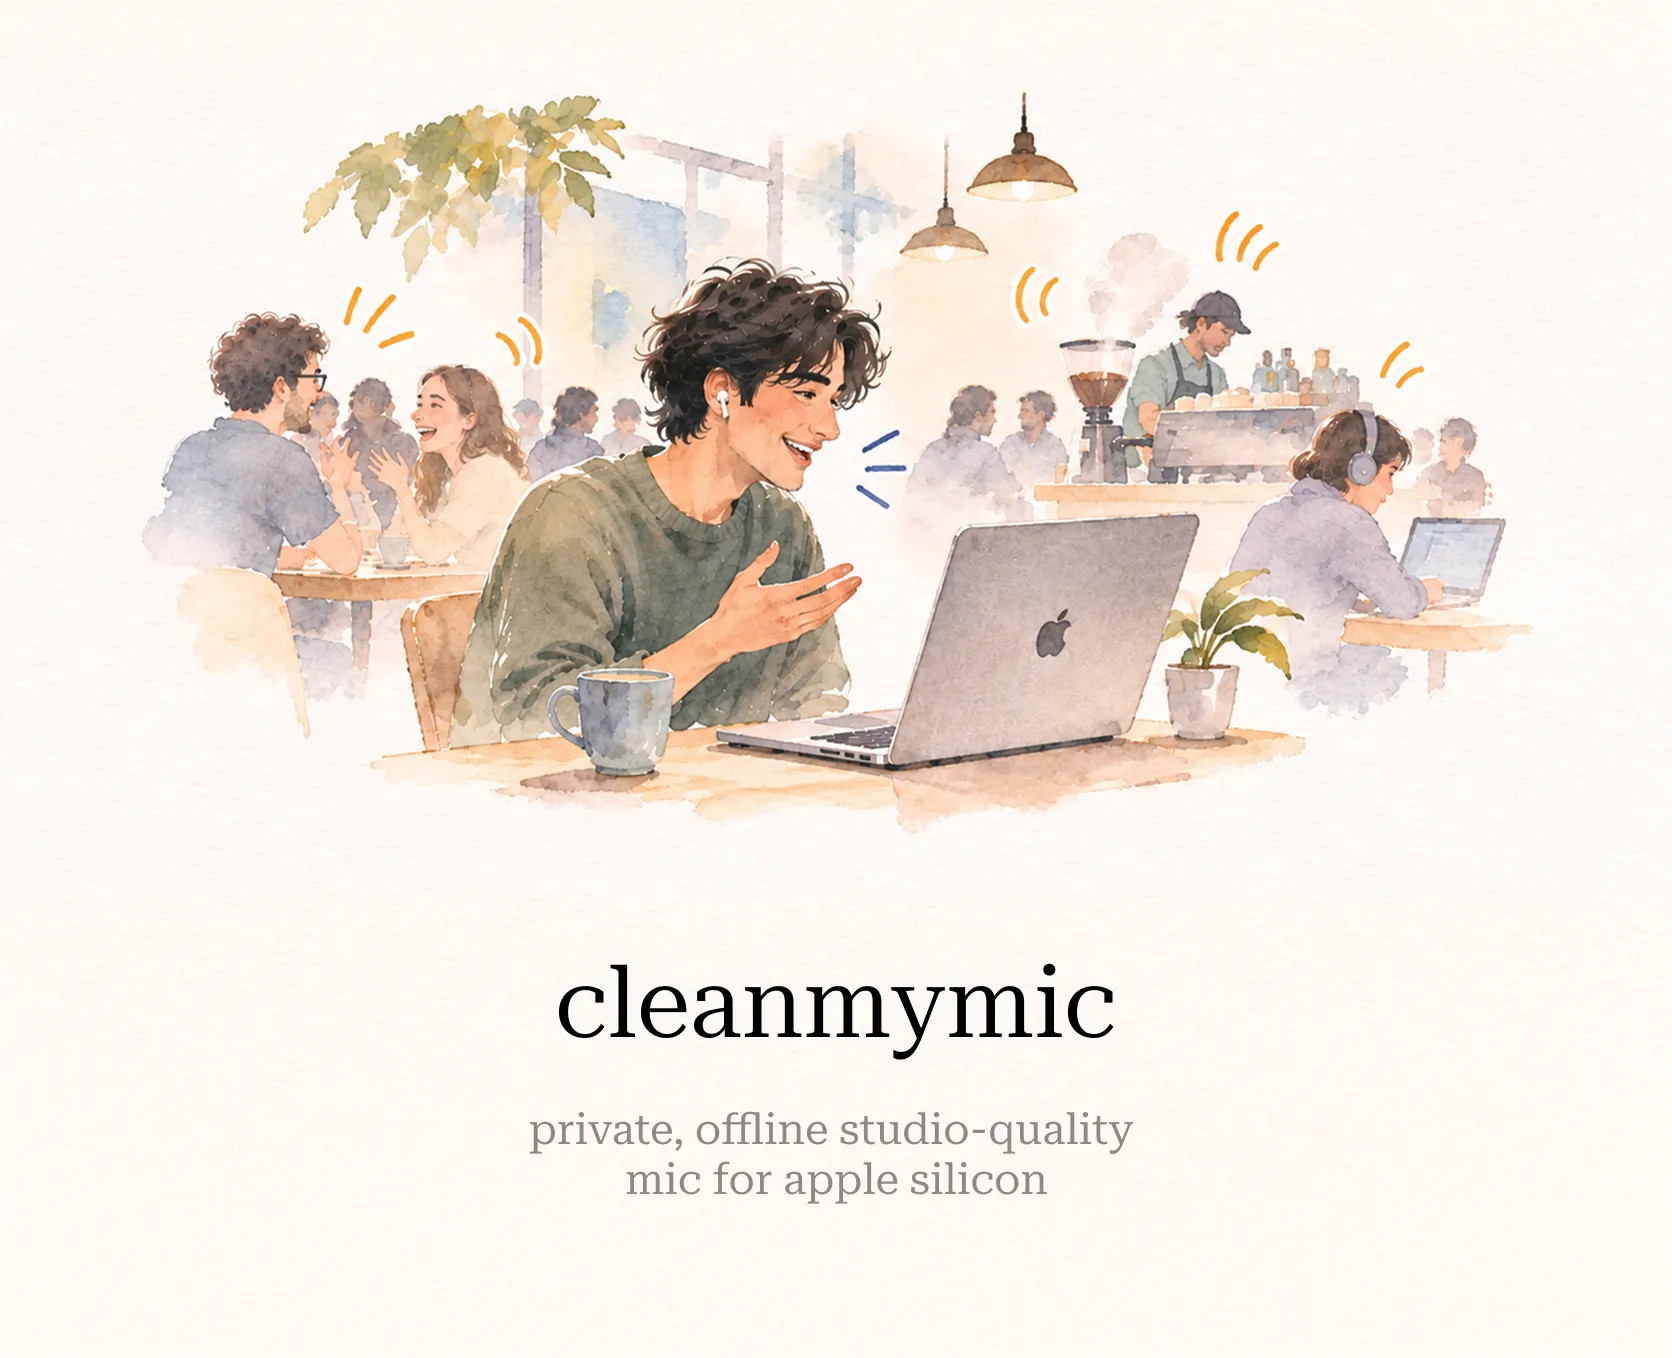
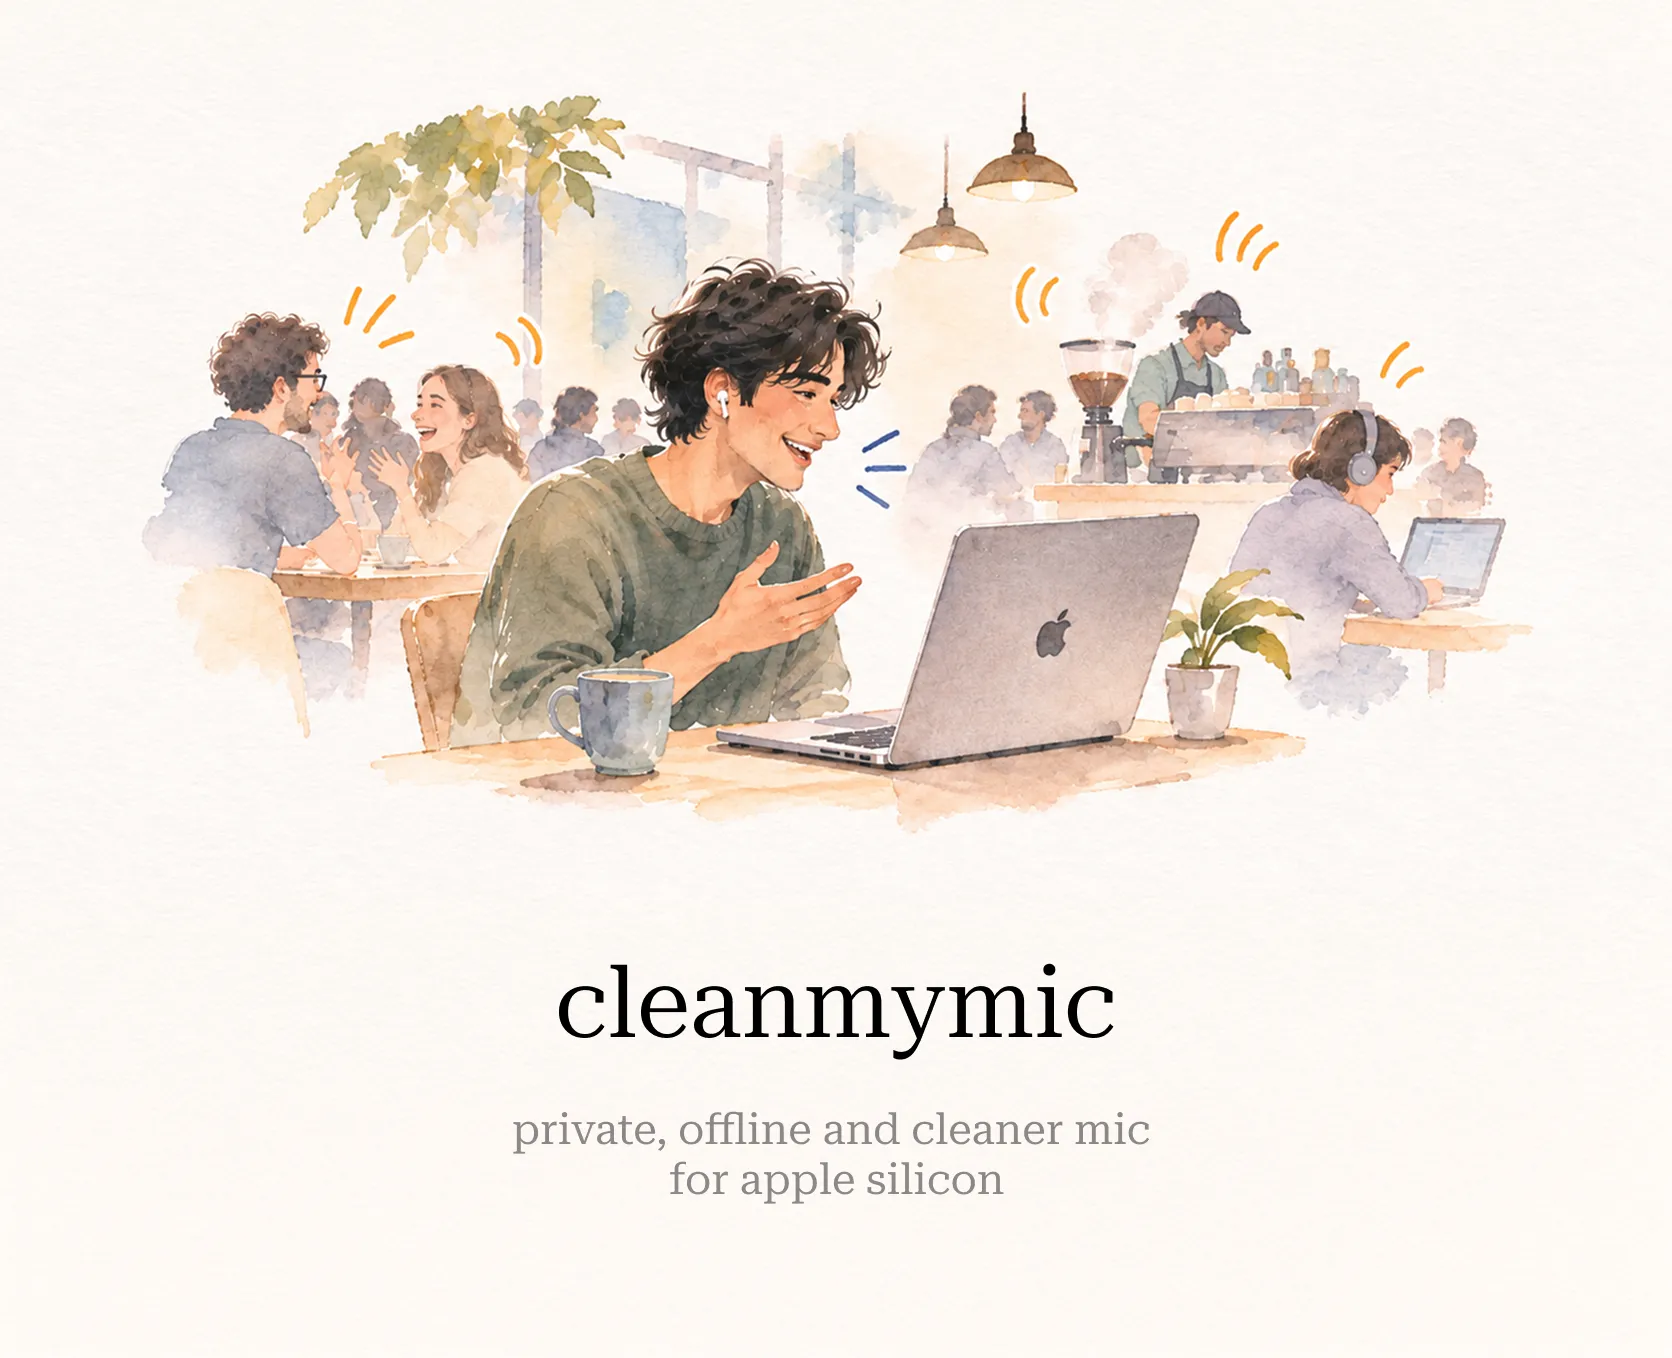
Mic check: off ends it, rename, mic prompt at launch (#6)
* Switching CleanMyMic off ends Hear yourself; keep the main switch enabled

* Release notes: describe the current panel, Hear yourself, and Settings

(cherry picked from commit 6a7e33c4f7a36f30aa84cb8b7043871268c90ccb)

* Rename Hear yourself to Mic check; ask for mic access at launch

The system mic prompt takes focus and closed the menu panel, which ended
the test mid-toggle. Asking once at launch keeps that prompt out of the panel.

* Update README cover: private, offline and cleaner mic

---------

Changed region(s): [[0.311, 0.8041, 0.6842, 0.8969]]

diff --git a/mac/Sources/CleanMyMic/App.swift b/mac/Sources/CleanMyMic/App.swift
@@ -45,12 +45,18 @@ nonisolated func modelDisplayName(_ resource: String) -> String {
 @Observable
 final class Controller {
     private let defaults = UserDefaults.standard
-    var noiseRemoval: Bool { didSet { defaults.set(noiseRemoval, forKey: "enabled"); pipeline?.setMix(mix) } }
+    var noiseRemoval: Bool {
+        didSet {
+            defaults.set(noiseRemoval, forKey: "enabled")
+            if !noiseRemoval { testing = false }  // off ends the headphone test (its didSet restarts)
+            pipeline?.setMix(mix)
+        }
+    }
     var inputUID: String { didSet { defaults.set(inputUID, forKey: "input"); restart() } }  // "": automatic
     var strength: Double { didSet { defaults.set(strength, forKey: "strength"); pipeline?.setMix(mix) } }
     var model: String { didSet { if model != oldValue { defaults.set(model, forKey: "model"); restart() } } }
     let models = bundledModels()
-    /// Hear yourself through headphones, to compare original and cleaned. A call app opening the mic ends it.
+    /// Mic check: hear yourself through headphones, to compare original and cleaned. A call app opening the mic ends it.
     var testing = false { didSet { if testing != oldValue { testCleaned = true; restart() } } }
     /// The test's own comparison: never changes `noiseRemoval`, which is what calls get.
     var testCleaned = true { didSet { pipeline?.setMix(mix) } }
@@ -74,6 +80,10 @@ final class Controller {
         let saved = defaults.string(forKey: "model") ?? defaultModel
         model = models.contains(saved) ? saved : defaultModel  // a model dropped from the app falls back to Base
         try? SMAppService.mainApp.register()  // start at login
+        // Ask for the mic up front: the system prompt takes focus, which would close the menu panel mid-toggle.
+        if AVCaptureDevice.authorizationStatus(for: .audio) == .notDetermined {
+            Task { _ = await AVCaptureDevice.requestAccess(for: .audio) }
+        }
         watch(kAudioHardwarePropertyDefaultInputDevice) { [weak self] in Task { @MainActor in self?.systemMicChanged() } }
         watch(kAudioHardwarePropertyDevices) { [weak self] in Task { @MainActor in self?.devicesChanged() } }
         watch(kAudioHardwarePropertyDefaultOutputDevice) { [weak self] in Task { @MainActor in self?.outputChanged() } }

diff --git a/mac/Sources/CleanMyMic/MenuView.swift b/mac/Sources/CleanMyMic/MenuView.swift
@@ -16,7 +16,7 @@ struct MenuView: View {
             HStack {
                 VStack(alignment: .leading, spacing: 2) {
                     Text("CleanMyMic").font(.headline)
-                    Text(controller.noiseRemoval || controller.testing ? stateLabel : "Off · \(stateLabel)")
+                    Text(controller.noiseRemoval ? stateLabel : "Off · \(stateLabel)")
                         .font(.subheadline)
                         .foregroundStyle(.secondary)
                 }
@@ -24,9 +24,7 @@ struct MenuView: View {
                 Toggle("CleanMyMic", isOn: $controller.noiseRemoval)  // the main switch: what calls get
                     .labelsHidden()
                     .toggleStyle(.switch)
-                    .disabled(controller.testing)  // the test has its own Original | Cleaned
-                    .help(controller.testing ? "Calls keep this setting during the test"
-                          : "Off sends your original voice, uncleaned")
+                    .help("Off sends your original voice, uncleaned, and ends Mic check")
             }
             .padding(12)
 
@@ -60,15 +58,15 @@ struct MenuView: View {
                 Divider().padding(.horizontal, 12)
                 VStack(alignment: .leading, spacing: 8) {
                     HStack {
-                        Text("Hear yourself")
+                        Text("Mic check")
                         Spacer()
-                        Toggle("Hear yourself", isOn: $controller.testing)
+                        Toggle("Mic check", isOn: $controller.testing)
                             .labelsHidden()
                             .toggleStyle(.switch)
                             .disabled(!controller.testing && controller.testBlocker != nil)
                     }
                     Text(controller.testing ? "Playing in \(controller.headphoneName). Calls aren't affected."
-                         : controller.testBlocker ?? "Test in your headphones before a call.")
+                         : controller.testBlocker ?? "Hear your mic in headphones before a call.")
                         .font(.caption)
                         .foregroundStyle(.secondary)
                         .fixedSize(horizontal: false, vertical: true)

diff --git a/mac/Sources/CleanMyMic/Devices.swift b/mac/Sources/CleanMyMic/Devices.swift
@@ -82,7 +82,7 @@ nonisolated func isBuiltInSpeaker(_ id: AudioDeviceID) -> Bool {
     return isBuiltIn(id) && ok && source == 0x6973_706B  // 'ispk', internal speaker
 }
 
-/// Why "Hear yourself" can't start now, or nil.
+/// Why "Mic check" can't start now, or nil.
 nonisolated func headphoneTestBlocker(output: AudioDevice?, isSpeaker: Bool, inCall: Bool) -> String? {
     if inCall { return "Unavailable while an app uses CleanMyMic" }
     guard let output, output.outputs, output.uid != cableUID else { return "No headphones found" }

diff --git a/INSTALL.md b/INSTALL.md
@@ -55,7 +55,7 @@ The driver build downloads pinned BlackHole source. Installation asks for an adm
 2. In Meet, Zoom, or another call app, select **CleanMyMic** as the microphone. Keep that selection whether CleanMyMic is switched on or off. CleanMyMic manages **macOS Sound → Input** automatically.
 3. Allow microphone access when macOS asks, then use your call app's microphone test. **Ready** means no app is using the virtual microphone; **In use** means audio is flowing.
 
-The switch at the top right of the panel is the main control: **on** sends cleaned audio, **off** passes your original voice through; it does not mute or disconnect the microphone. **Settings…** at the bottom of the panel opens the Settings window, with cleanup strength and the model. **Hear yourself** plays your mic to your headphones so you can compare **Original** and **Cleaned** before a call; it does not change what calls get. Automatic follows the physical mic selected by macOS and falls back to an available mic if that device disconnects; a manual choice takes priority while available.
+The switch at the top right of the panel is the main control: **on** sends cleaned audio, **off** passes your original voice through; it does not mute or disconnect the microphone. **Settings…** at the bottom of the panel opens the Settings window, with cleanup strength and the model. **Mic check** plays your mic to your headphones so you can compare **Original** and **Cleaned** before a call; it does not change what calls get. Automatic follows the physical mic selected by macOS and falls back to an available mic if that device disconnects; a manual choice takes priority while available.
 
 When the last app stops using the virtual microphone, CleanMyMic releases your physical mic and returns to **Ready**. macOS shows its microphone indicator during capture, including when CleanMyMic is switched off. An app's mute button may leave its microphone open; end the call or quit CleanMyMic to release it. Quitting restores a physical macOS input, but apps explicitly using CleanMyMic must switch to a physical mic if you want to keep talking.
 

diff --git a/docs/releases/v0.1.0-alpha.1.md b/docs/releases/v0.1.0-alpha.1.md
@@ -4,8 +4,8 @@ CleanMyMic is a Mac menu bar app for local microphone cleanup using Core ML. Thi
 
 ## Included
 
-- Swift menu bar app with a compact native panel, automatic microphone selection with an override, and one **Noise removal** switch. Off passes your original voice through the same virtual microphone. Strength is in Settings. One model: CleanMyMic Base.
-- Automatic macOS input routing and on-demand capture: **Ready** until an app uses the virtual microphone, **In use** during capture, and the physical mic is released when the last app stops. This applies with noise removal on or off. Virtual-microphone build scripts are included.
+- Swift menu bar app with a native panel: one on/off switch at the top right (off passes your original voice through the same virtual microphone), automatic microphone selection with an override, and **Mic check**, which plays your mic to your headphones so you can compare **Original** and **Cleaned** before a call. **Settings…** opens a window with cleanup strength and the model. One model: CleanMyMic Base.
+- Automatic macOS input routing and on-demand capture: **Ready** until an app uses the virtual microphone, **In use** during capture, and the physical mic is released when the last app stops. This applies whether CleanMyMic is switched on or off. Virtual-microphone build scripts are included.
 - Python model export and evaluation tools and checkpoint-specific benchmark evidence.
 - Build checks and an agent-assisted setup guide.
 - One signed, notarized installer with the app, virtual microphone, and Base model; driver source, notices, build/model hashes, and a removal script are included. No separate model download is needed to run it.

diff --git a/README.md b/README.md
@@ -1,4 +1,4 @@
-![cleanmymic — private, offline studio-quality mic for Apple silicon](docs/images/cover.webp)
+![cleanmymic — private, offline and cleaner mic for Apple silicon](docs/images/cover.webp)
 
 # CleanMyMic
 
